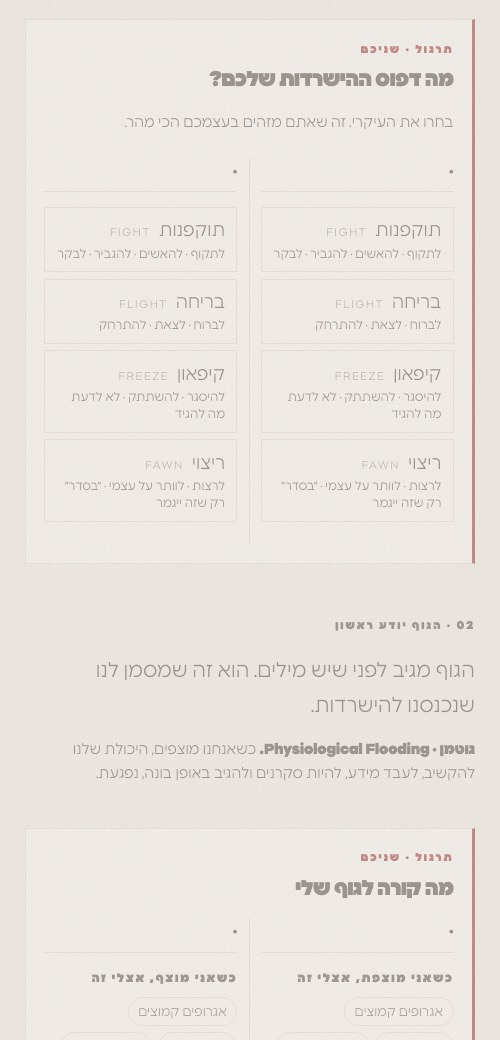
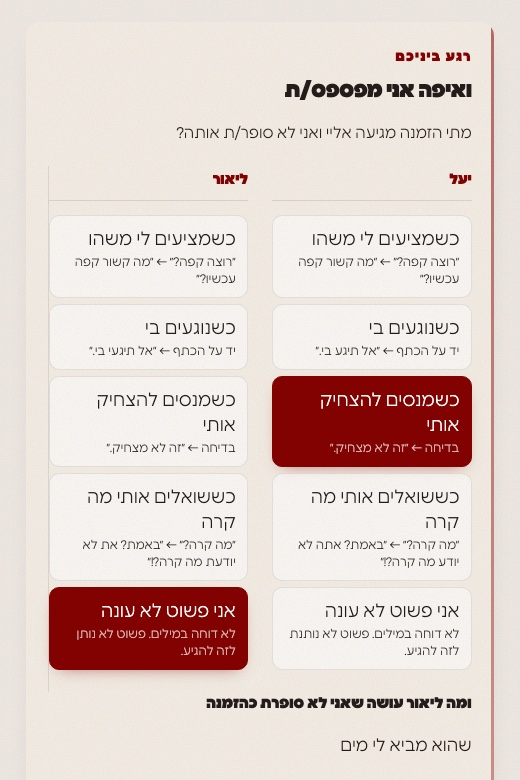
צילומי מסך חדשים משלוש תחנות, עם כיתובים

diff --git a/comeback.html b/comeback.html
@@ -526,27 +526,24 @@ footer a:hover{color:#FDF8F3;border-color:#FDF8F3}
 
     <div class="peek">
       <figure class="rv">
-        <img src="preview/p1.jpg" alt="מסך פתיחה של תחנה">
+        <img src="preview/p1.jpg" alt="מסך מתחנה 01 · מה כל אחד שומע כשמבקשים הפסקה">
         <figcaption>
-          <b>עשרים דקות, מהספה</b>
-          כל תחנה נפתחת במסר קולי קצר ממני, ואחריו הסבר: מה קורה לכם ברגע הזה, ולמה.
-          אפשר לעצור באמצע ולחזור בדיוק לאותו מקום.
+          <b>״בוא נעצור״ נשמע כמו נטישה</b>
+          שניכם עונים על אותו מסך, כל אחד בטור שלו, ורואים בזמן אמת מה השני סימן. זה בדיוק הרגע שבו מתגלה הפער.
         </figcaption>
       </figure>
       <figure class="rv">
-        <img src="preview/p2.jpg" alt="תרגיל זוגי על המסך">
+        <img src="preview/p2.jpg" alt="מסך מתחנה 03 · איך נראית הזמנה לחיבור שלא נספרה">
         <figcaption>
-          <b>שניכם, על אותו מסך</b>
-          כל אחד עונה בטור שלו ורואה בזמן אמת מה השני ענה.
-          זה מה שמייצר את השיחה, לא השאלה.
+          <b>ההזמנה שלא נספרה</b>
+          כל תחנה נפתחת במסר קולי קצר ממני, ואחריו תרגיל. עשרים דקות, מהטלפון, ואפשר לעצור באמצע ולחזור בדיוק לאותו מקום.
         </figcaption>
       </figure>
       <figure class="rv">
-        <img src="preview/p3.jpg" alt="המפה והכרטיסים בסוף התחנה">
+        <img src="preview/p3.jpg" alt="מסך מתחנה 04 · שתי גרסאות לאותו ריב">
         <figcaption>
-          <b>לא יוצאים עם תובנות. יוצאים עם הסכם</b>
-          בסוף כל תחנה נבנית לכם מפה: מילת הקוד שעוצרת ריב, מי מחזיר לשיחה,
-          ומה כל אחד מכם עושה בפעם הבאה. מדפיסים, ותולים על המקרר.
+          <b>שתי חוויות, אותו ריב</b>
+          בסוף כל תחנה נבנית לכם מפה: מילת הקוד שעוצרת ריב, מי מחזיר לשיחה, ומה כל אחד מכם עושה בפעם הבאה. מדפיסים, ותולים על המקרר.
         </figcaption>
       </figure>
     </div>
